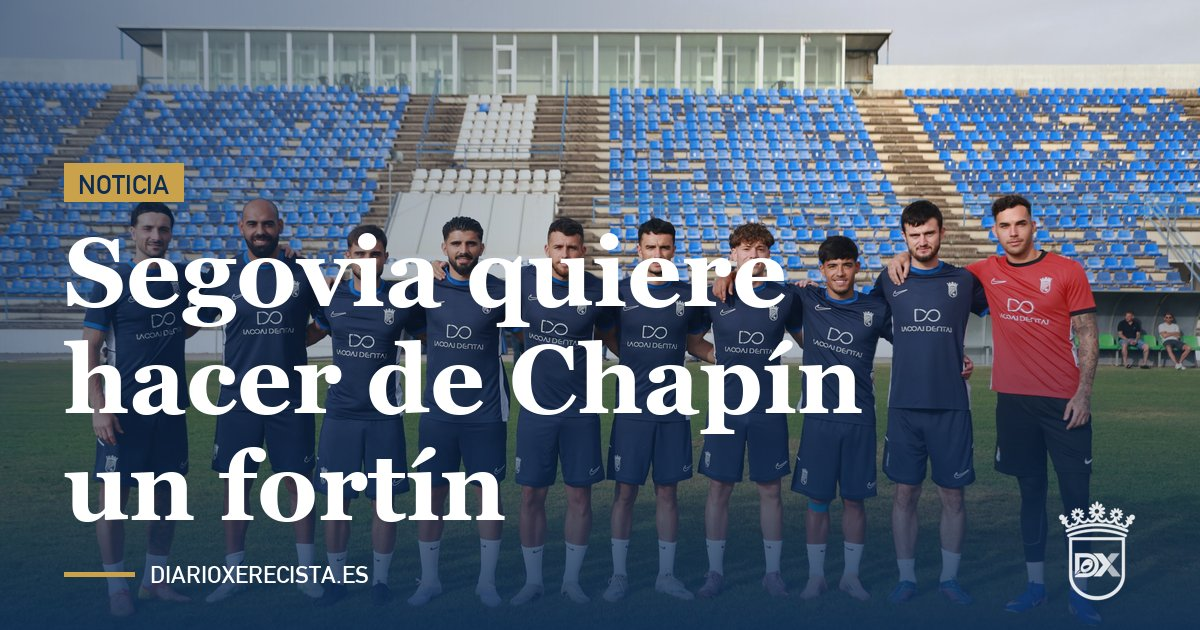
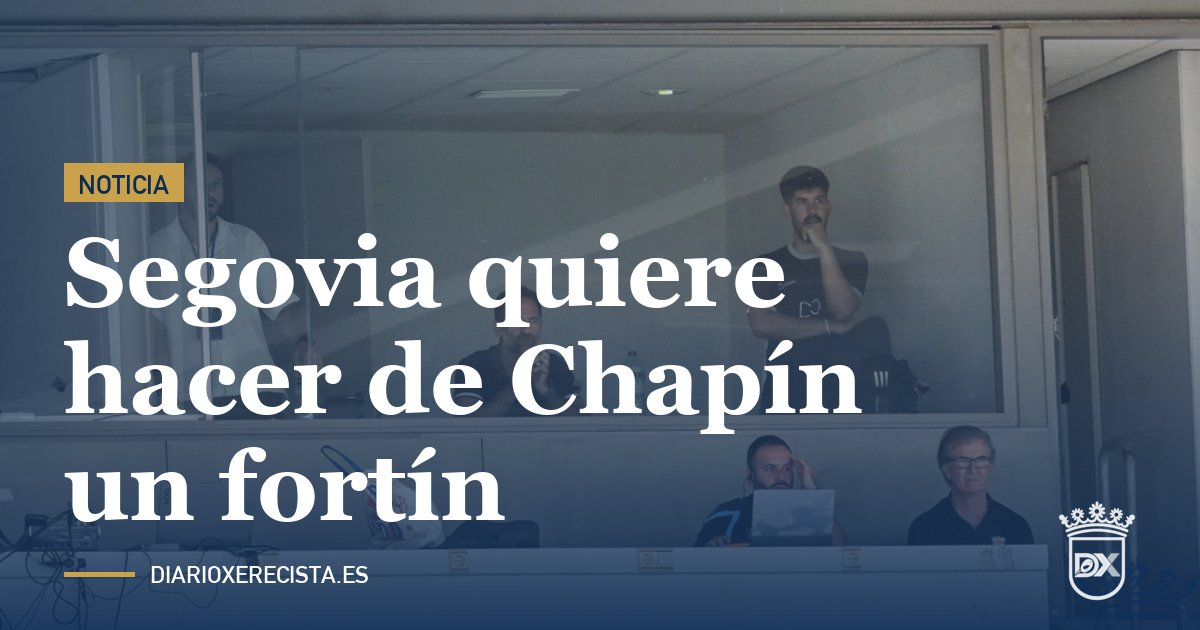
art101: foto de archivo de Abel Segovia (ES/EN e imagen para redes)

diff --git a/noticias/articulos/2026-10/segovia-quiere-hacer-de-chapin-un-fortin-ante-un-marbella-que-cambia-de-sistema/index.html b/noticias/articulos/2026-10/segovia-quiere-hacer-de-chapin-un-fortin-ante-un-marbella-que-cambia-de-sistema/index.html
@@ -38,7 +38,7 @@
   "headline": "Segovia quiere hacer de Chapín un fortín",
   "description": "El entrenador del Xerez CD, Abel Segovia, pidió acierto de cara a portería para el partido del domingo ante el Marbella (19:00, Chapín), un rival directo empatado a 6 puntos. Confirmó la baja de Zelu y la vuelta de Josete, y dejó la Copa del Rey a un lado: \"Del miércoles ni hemos hablado ni vamos a hablar\".",
   "image": [
-    "https://www.diarioxerecista.es/fotos/publicadas/xerez-cd-primer-entreno-pretemporada-2026-27.jpg"
+    "https://www.diarioxerecista.es/fotos/publicadas/xerez-tenerife-b-j5-segovia-palco.jpg"
   ],
   "datePublished": "2026-10-23",
   "dateModified": "2026-10-23",
@@ -78,7 +78,7 @@
     <h1>Segovia quiere hacer de Chapín un fortín</h1>
 
     <div class="n-photo">
-      <img src="../../../../fotos/publicadas/xerez-cd-primer-entreno-pretemporada-2026-27.jpg" alt="Jugadores del Xerez CD posan en el césped de un estadio" loading="lazy">
+      <img src="../../../../fotos/publicadas/xerez-tenerife-b-j5-segovia-palco.jpg" alt="Abel Segovia sigue un partido del Xerez CD desde el palco de Chapín" loading="lazy">
       <span class="n-credit">Foto: Diario Xerecista</span>
     </div>
 

diff --git a/en/noticias/articulos/2026-10/segovia-wants-to-make-chapin-a-fortress-against-a-shape-shifting-marbella/index.html b/en/noticias/articulos/2026-10/segovia-wants-to-make-chapin-a-fortress-against-a-shape-shifting-marbella/index.html
@@ -38,7 +38,7 @@
   "headline": "Segovia wants to make Chapín a fortress",
   "description": "Xerez CD head coach Abel Segovia called for sharper finishing for Sunday's match against Marbella (19:00, Chapín), a direct rival level on 6 points. He confirmed that Zelu will miss out and that Josete is back, and set the Copa del Rey aside: \"We haven't talked about Wednesday and we're not going to\".",
   "image": [
-    "https://www.diarioxerecista.es/fotos/publicadas/xerez-cd-primer-entreno-pretemporada-2026-27.jpg"
+    "https://www.diarioxerecista.es/fotos/publicadas/xerez-tenerife-b-j5-segovia-palco.jpg"
   ],
   "datePublished": "2026-10-23",
   "dateModified": "2026-10-23",
@@ -78,7 +78,7 @@
     <h1>Segovia wants to make Chapín a fortress</h1>
 
     <div class="n-photo">
-      <img src="../../../../../fotos/publicadas/xerez-cd-primer-entreno-pretemporada-2026-27.jpg" alt="Xerez CD players pose on the pitch of a stadium" loading="lazy">
+      <img src="../../../../../fotos/publicadas/xerez-tenerife-b-j5-segovia-palco.jpg" alt="Abel Segovia watches a Xerez CD match from the box at Chapín" loading="lazy">
       <span class="n-credit">Photo: Diario Xerecista</span>
     </div>
 
